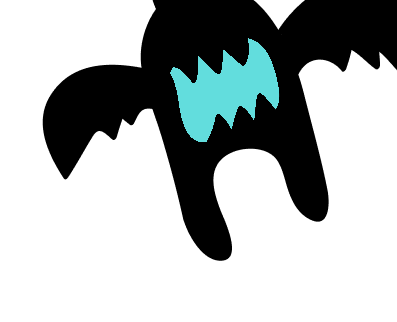
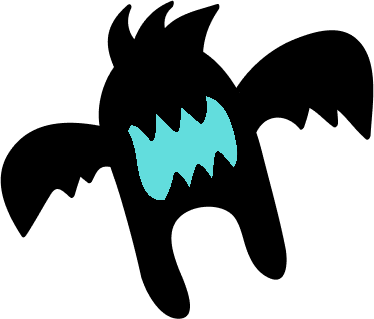
結果ファイルのコウモリが切れていたのを直す（画像を取り直し）、雲の縁の継ぎ目を目立たなくする

diff --git a/result-art.js b/result-art.js
@@ -1,7 +1,7 @@
 // 結果ファイルに埋め込むキャラクター画像（assets/r-*.png を base64 にしたもの。ダウンロードしたファイルが単独で開けるように）
 // 作り直すとき：python3 で assets/r-*.png から書き出す（CLAUDE.md 参照）
 window.RESULT_ART = {
[5 lines of base64/hex data omitted]

diff --git a/family.js b/family.js
@@ -1012,9 +1012,9 @@ main{max-width:430px;margin:0 auto;padding:0 20px 40px;overflow-x:hidden}
 h1,h2,h3,p,ol,ul{margin:0}
 small{display:block;font-size:13px;color:#656565}
 .top{position:relative;margin:0 -20px;padding:48px 20px 56px;background:#09ab00;border-radius:0 0 54px 54px;text-align:center;min-height:210px}
-.top::after{content:"";position:absolute;left:30px;right:30px;bottom:-46px;height:60px;background:radial-gradient(circle at 28px 30px,#09ab00 0 28px,transparent 29px) 0 0/90px 60px repeat-x,radial-gradient(circle at 70px 24px,#09ab00 0 20px,transparent 21px) 0 0/90px 60px repeat-x}
+.top::after{content:"";position:absolute;left:30px;right:30px;bottom:-46px;height:60px;background:radial-gradient(circle at 28px 30px,#09ab00 0 28px,transparent 29px) 0 0/90px 60px round no-repeat,radial-gradient(circle at 70px 24px,#09ab00 0 20px,transparent 21px) 0 0/90px 60px round no-repeat}
 .top h1{font:400 44px/1.15 "Rubik Bubbles","Noto Sans JP",sans-serif;letter-spacing:1px}
-.bat{position:absolute;left:12px;top:150px;width:98px;z-index:2}
+.bat{position:absolute;left:10px;top:148px;width:104px;z-index:2}
 .warn{margin-top:72px;text-align:center;color:#ff0084;font-size:14px}
 .chips{display:flex;flex-wrap:wrap;gap:12px;justify-content:center;margin:24px 0}
 .chips span{background:#60e6fd;color:#2d1f4e;border-radius:999px;padding:2px 14px;font-size:15px}
@@ -1033,7 +1033,7 @@ small{display:block;font-size:13px;color:#656565}
 .box{background:#fff;color:#2d1f4e;border-radius:14px;padding:10px 14px;margin-top:12px}
 .box p{margin-top:2px}
 .gc{position:relative;background:#09ab00;border-radius:46px;padding:30px 24px;margin:64px -6px}
-.gc::before,.gc::after{content:"";position:absolute;left:18px;right:18px;height:60px;background:radial-gradient(circle at 28px 34px,#09ab00 0 28px,transparent 29px) 0 0/90px 60px repeat-x,radial-gradient(circle at 70px 40px,#09ab00 0 20px,transparent 21px) 0 0/90px 60px repeat-x}
+.gc::before,.gc::after{content:"";position:absolute;left:18px;right:18px;height:60px;background:radial-gradient(circle at 28px 34px,#09ab00 0 28px,transparent 29px) 0 0/90px 60px round no-repeat,radial-gradient(circle at 70px 40px,#09ab00 0 20px,transparent 21px) 0 0/90px 60px round no-repeat}
 .gc::before{top:-46px}.gc::after{bottom:-46px;transform:scaleY(-1)}
 .gc small{color:#fff;font-size:14px}.gc p{font-size:18px;margin-top:2px}
 .note{font-weight:400;margin:4px 0 12px}
